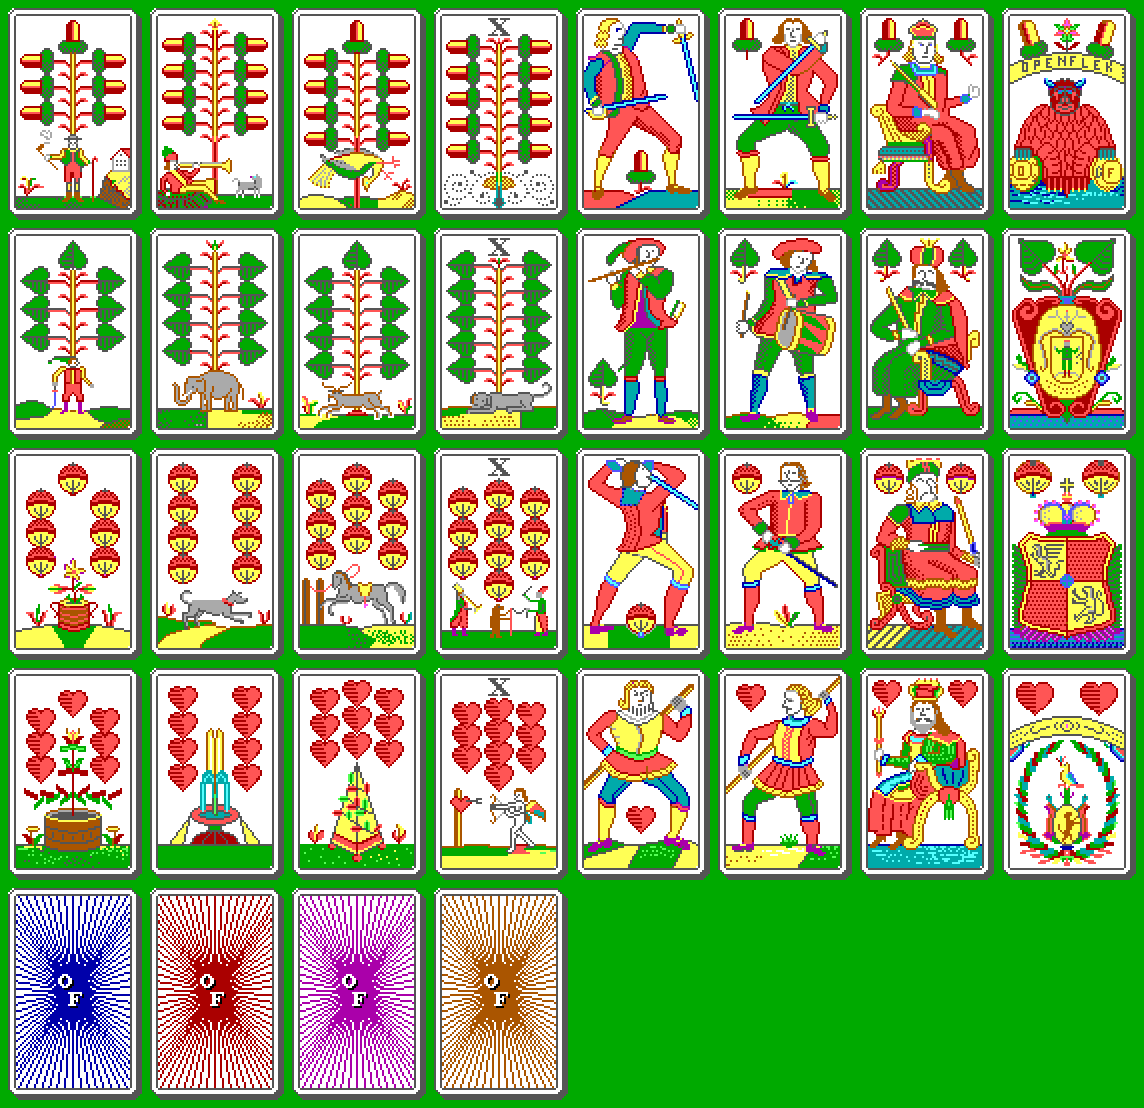
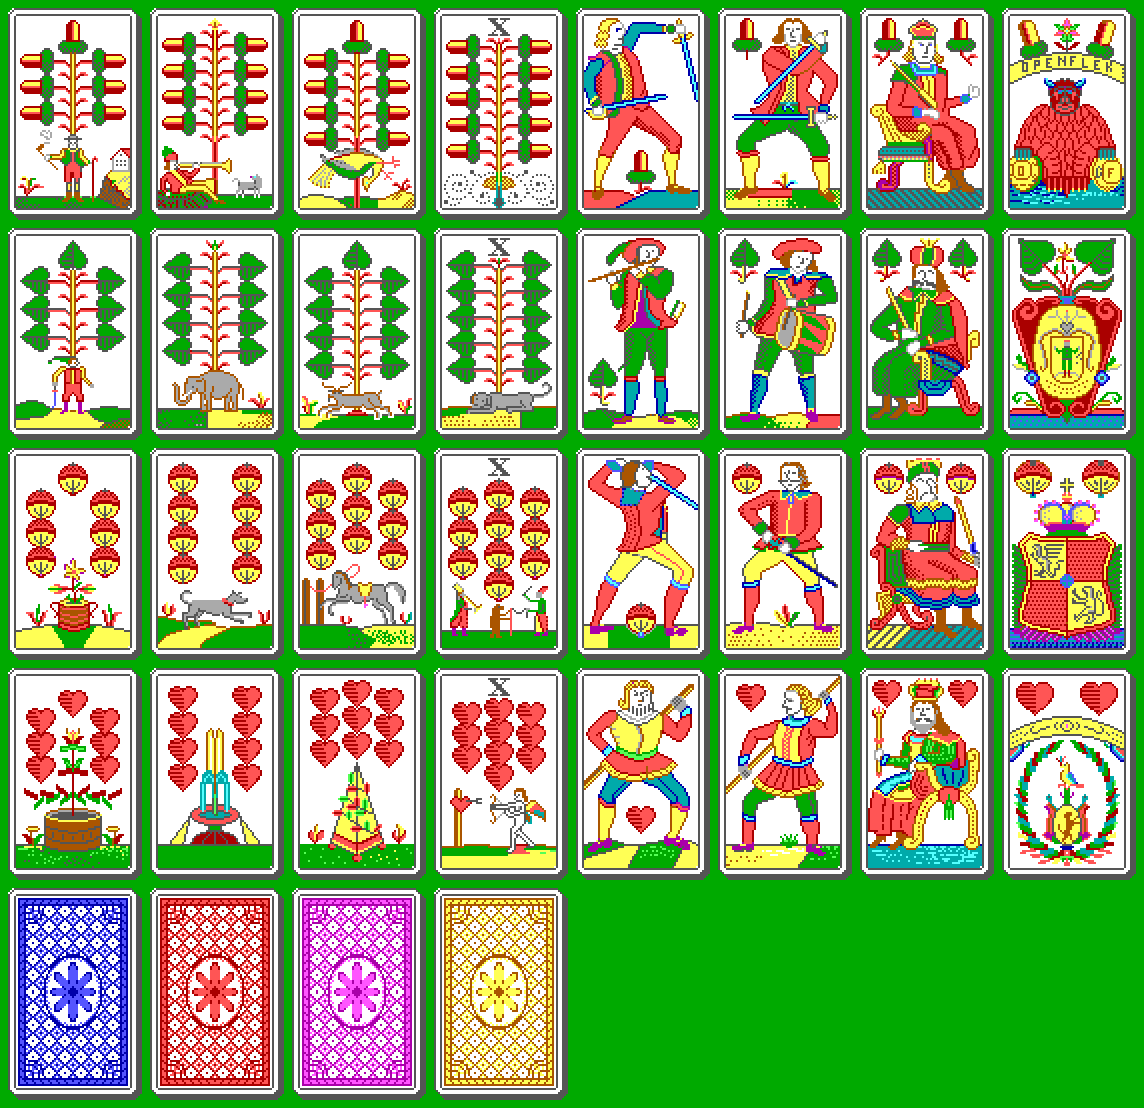
draw card backs as a lattice with a central rosette instead of a sunburst

Changed region(s): [[0.0, 0.7978, 0.4895, 0.9819]]

diff --git a/src/art/cards.rs b/src/art/cards.rs
@@ -2,7 +2,6 @@
 //! the octagonal frame drawn at runtime.
 
 use crate::game::cards::Card;
-use crate::gfx::font::draw_text_shadowed;
 use crate::gfx::{Canvas, Fill, color};
 
 /// Size of the face artwork; it sits inside the card frame at (2, 2).
@@ -80,36 +79,123 @@ pub fn render_card_sprite(card: Card) -> Canvas {
     c
 }
 
-/// The card back: a sunburst of thin lines in `line_color` with a monogram.
+/// The card back in `line_color`, laid out like a face so it sits in the frame
+/// the same way.
 pub fn render_back_sprite(line_color: u8) -> Canvas {
     let mut c = empty_sprite();
-    for x in (0..=CARD_W).step_by(4) {
-        c.line(x, 2, CARD_W - x, 101, line_color);
-    }
-    for y in (10..=95).step_by(4) {
-        c.line(2, y, 62, 103 - y, line_color);
-    }
-    // Clip the line ends to the card shape before painting the frame.
-    for y in 0..SPRITE_H {
-        for x in 0..SPRITE_W {
-            if !inside_outer(x, y) {
-                c.put_pixel(x, y, TRANSPARENT);
-            }
-        }
-    }
+    c.blit(&render_back_face(line_color), 2, 2, None);
     draw_frame(&mut c);
-    draw_text_shadowed(&mut c, 25, 43, "O", color::WHITE, color::BLACK, 0);
-    draw_text_shadowed(&mut c, 30, 52, "F", color::WHITE, color::BLACK, 0);
     c
 }
 
-fn inside_outer(x: i32, y: i32) -> bool {
-    (0..=CARD_W).contains(&x)
-        && (0..=CARD_H).contains(&y)
-        && x + y >= 3
-        && (CARD_W - x) + y >= 3
-        && x + (CARD_H - y) >= 3
-        && (CARD_W - x) + (CARD_H - y) >= 3
+/// The 61x100 back artwork: the dark-grey inner border every face has, then
+/// the pattern from `back_pixel`.
+fn render_back_face(line_color: u8) -> Canvas {
+    let mut c = Canvas::new(FACE_W, FACE_H);
+    c.clear(color::WHITE);
+    c.line(2, 1, FACE_W - 3, 1, color::DARK_GRAY);
+    c.line(2, FACE_H - 2, FACE_W - 3, FACE_H - 2, color::DARK_GRAY);
+    c.line(1, 2, 1, FACE_H - 3, color::DARK_GRAY);
+    c.line(FACE_W - 2, 2, FACE_W - 2, FACE_H - 3, color::DARK_GRAY);
+    for y in 2..FACE_H - 2 {
+        for x in 2..FACE_W - 2 {
+            c.put_pixel(x, y, back_pixel(line_color, x, y));
+        }
+    }
+    c
+}
+
+/// Lighter partner of each back colour (1..=7) for petals and tinted cells.
+fn back_light(line_color: u8) -> u8 {
+    match line_color {
+        color::BLUE => color::LIGHT_BLUE,
+        color::GREEN => color::LIGHT_GREEN,
+        color::CYAN => color::LIGHT_CYAN,
+        color::RED => color::LIGHT_RED,
+        color::MAGENTA => color::LIGHT_MAGENTA,
+        color::BROWN => color::YELLOW,
+        color::LIGHT_GRAY => color::LIGHT_GRAY,
+        _ => color::WHITE,
+    }
+}
+
+/// The back pattern at face pixel (x, y), for x in 2..=58 and y in 2..=97:
+/// a double border, fans in the corners, a diamond lattice with a flower in
+/// each cell and alternate cells tinted, and a medallion holding an
+/// eight-petalled rosette.
+///
+/// Everything is measured from the centre, so the back is mirror symmetric
+/// both ways and looks the same either way up. Mirrors
+/// `scripts/deck_gen/palette.py::back_colour`.
+fn back_pixel(line_color: u8, x: i32, y: i32) -> u8 {
+    let dark = if line_color == color::LIGHT_GRAY {
+        color::DARK_GRAY
+    } else {
+        line_color
+    };
+    let light = back_light(line_color);
+    // Quadrant coordinates: rows 49 and 50 are both the middle row.
+    let qx = (x - 30).abs();
+    let qy = ((2 * y - 99).abs() - 1) / 2;
+
+    // Border: a dark rule, a light band, another dark rule.
+    let edge = (x - 2).min(58 - x).min(y - 2).min(97 - y);
+    match edge {
+        0 => return color::WHITE,
+        1 | 4 => return dark,
+        2 | 3 => return if (qx + qy) % 4 != 0 { light } else { dark },
+        _ => {}
+    }
+
+    // Fans in the four corners of the field.
+    let (fx, fy) = (f64::from(23 - qx), f64::from(42 - qy));
+    let fr = fx.hypot(fy);
+    if fx >= 0.0 && fy >= 0.0 && fr <= 9.0 {
+        if fr > 8.0 || (fr as i32) % 3 == 0 {
+            return dark;
+        }
+        let ray = (fy.atan2(fx).to_degrees() / 15.0) as i32;
+        return if ray % 2 != 0 { light } else { color::WHITE };
+    }
+
+    // Central medallion with a rosette.
+    let (mx, my) = (f64::from(qx), f64::from(qy) + 0.5);
+    let mr = (mx / 15.0).hypot(my / 19.0);
+    if mr <= 1.0 {
+        if mr > 0.92 {
+            return dark;
+        }
+        if mr > 0.84 {
+            return if (qx + qy) % 2 != 0 {
+                light
+            } else {
+                color::WHITE
+            };
+        }
+        let petal = 0.25 + 0.55 * (4.0 * my.atan2(mx)).cos().abs();
+        if mr < 0.14 {
+            return dark;
+        }
+        if mr < petal {
+            return if mr > petal - 0.08 { dark } else { light };
+        }
+        return color::WHITE;
+    }
+
+    // Diamond lattice with a flower in each cell.
+    let (a, b) = ((qx + qy).rem_euclid(8), (qx - qy).rem_euclid(8));
+    if a == 0 || b == 0 || (a == 4 && b == 4) {
+        return dark;
+    }
+    if (a == 4 && (b == 3 || b == 5)) || (b == 4 && (a == 3 || a == 5)) {
+        return light;
+    }
+    // Every other cell is tinted, so the lattice reads as a chequer of diamonds.
+    let cell = (qx + qy).div_euclid(8) + (qx - qy).div_euclid(8);
+    if cell.rem_euclid(2) == 1 && (qx + qy) % 2 == 1 {
+        return light;
+    }
+    color::WHITE
 }
 
 /// The 32 faces in card-id order, row-major, two pixels per byte (high nibble first).
@@ -166,7 +252,57 @@ mod tests {
     fn back_uses_requested_line_colour_and_keeps_frame() {
         let c = render_back_sprite(color::MAGENTA);
         assert!(c.pixels().contains(&color::MAGENTA));
+        assert!(c.pixels().contains(&color::LIGHT_MAGENTA));
         assert_eq!(c.pixel(0, 0), Some(TRANSPARENT));
         assert_eq!(c.pixel(66, 50), Some(color::DARK_GRAY));
+    }
+
+    #[test]
+    fn back_looks_the_same_either_way_up() {
+        // Backs only ever use colours 1..=7 (see `app::table::back_color`).
+        for line in 1..=7 {
+            let f = render_back_face(line);
+            for y in 0..FACE_H {
+                for x in 0..FACE_W {
+                    let p = f.pixel(x, y);
+                    assert_eq!(
+                        p,
+                        f.pixel(x, FACE_H - 1 - y),
+                        "colour {line}: ({x}, {y}) vs its mirror below"
+                    );
+                    assert_eq!(
+                        p,
+                        f.pixel(FACE_W - 1 - x, y),
+                        "colour {line}: ({x}, {y}) vs its mirror across"
+                    );
+                }
+            }
+        }
+    }
+
+    #[test]
+    fn back_border_matches_the_faces() {
+        // The back sits in the frame like a face: same dark-grey inner border.
+        let back = render_back_face(color::BLUE);
+        let face = render_face(Card::from_id(0));
+        for (x, y) in [(1, 50), (59, 50), (30, 1), (30, 98), (0, 50), (1, 1)] {
+            assert_eq!(back.pixel(x, y), face.pixel(x, y), "({x}, {y})");
+        }
+    }
+
+    #[test]
+    fn back_has_rosette_lattice_and_no_lettering() {
+        let f = render_back_face(color::RED);
+        // The rosette's centre and a petal on the vertical axis.
+        assert_eq!(f.pixel(30, 49), Some(color::RED));
+        assert_eq!(f.pixel(30, 44), Some(color::LIGHT_RED));
+        // Black only ever came from the old monogram's shadow.
+        assert!(!f.pixels().contains(&color::BLACK));
+        // A grey back draws its lines in dark grey so they show on white.
+        assert!(
+            render_back_face(color::LIGHT_GRAY)
+                .pixels()
+                .contains(&color::DARK_GRAY)
+        );
     }
 }
